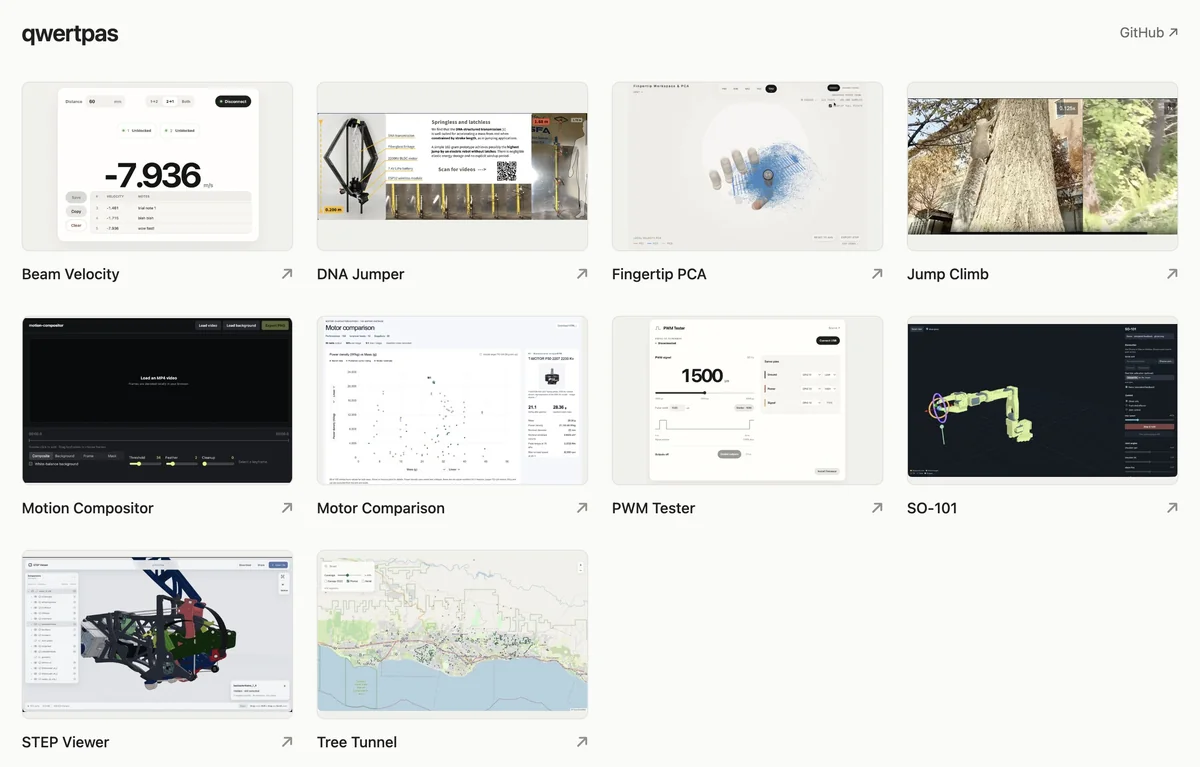
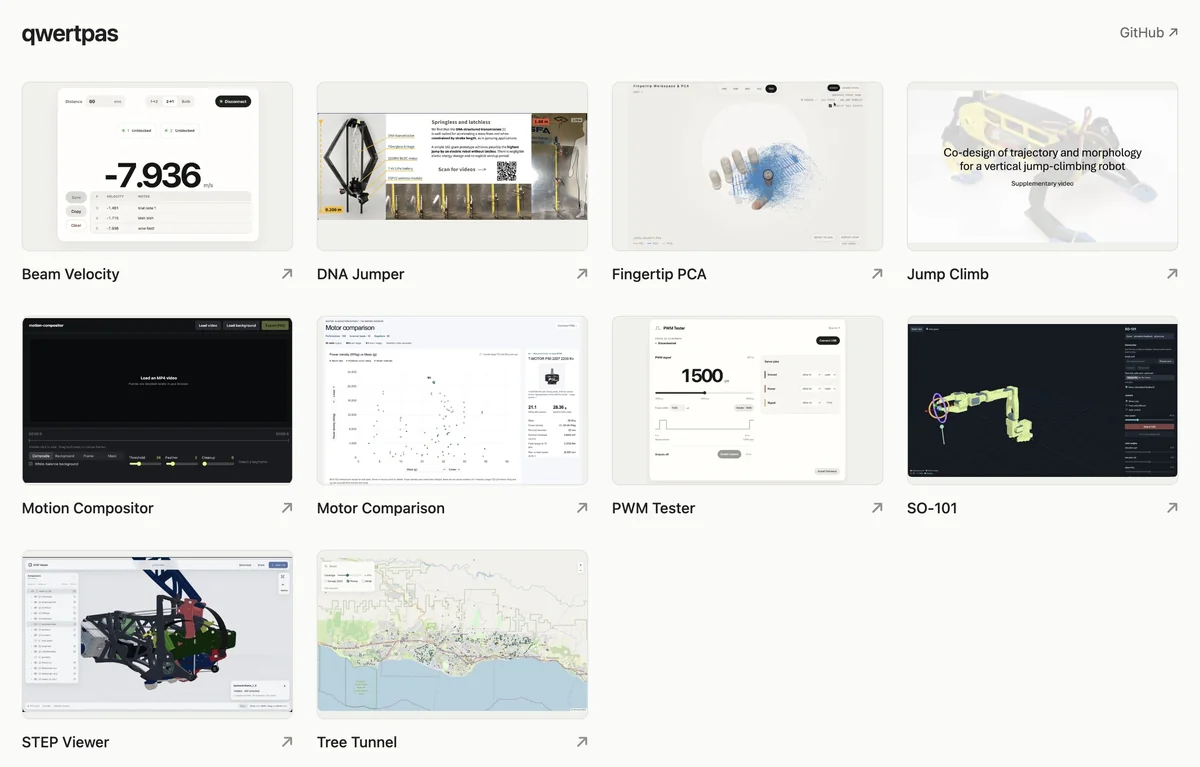
Use Jump Climb video title slide for thumbnail

Changed region(s): [[0.74, 0.1199, 0.9867, 0.3299]]

diff --git a/index.html b/index.html
@@ -24,7 +24,7 @@
       <span class="name">Fingertip PCA<span aria-hidden="true">↗</span></span>
     </a>
     <a class="project" href="https://qwertpas.github.io/jump-climb/">
-      <div class="preview"><img src="assets/jump-climb.webp" alt="Jump Climb preview" width="800" height="500" decoding="async"></div>
+      <div class="preview"><img src="assets/jump-climb-title.webp" alt="Jump Climb preview" width="800" height="500" decoding="async"></div>
       <span class="name">Jump Climb<span aria-hidden="true">↗</span></span>
     </a>
     <a class="project" href="https://qwertpas.github.io/motion-compositor/">
